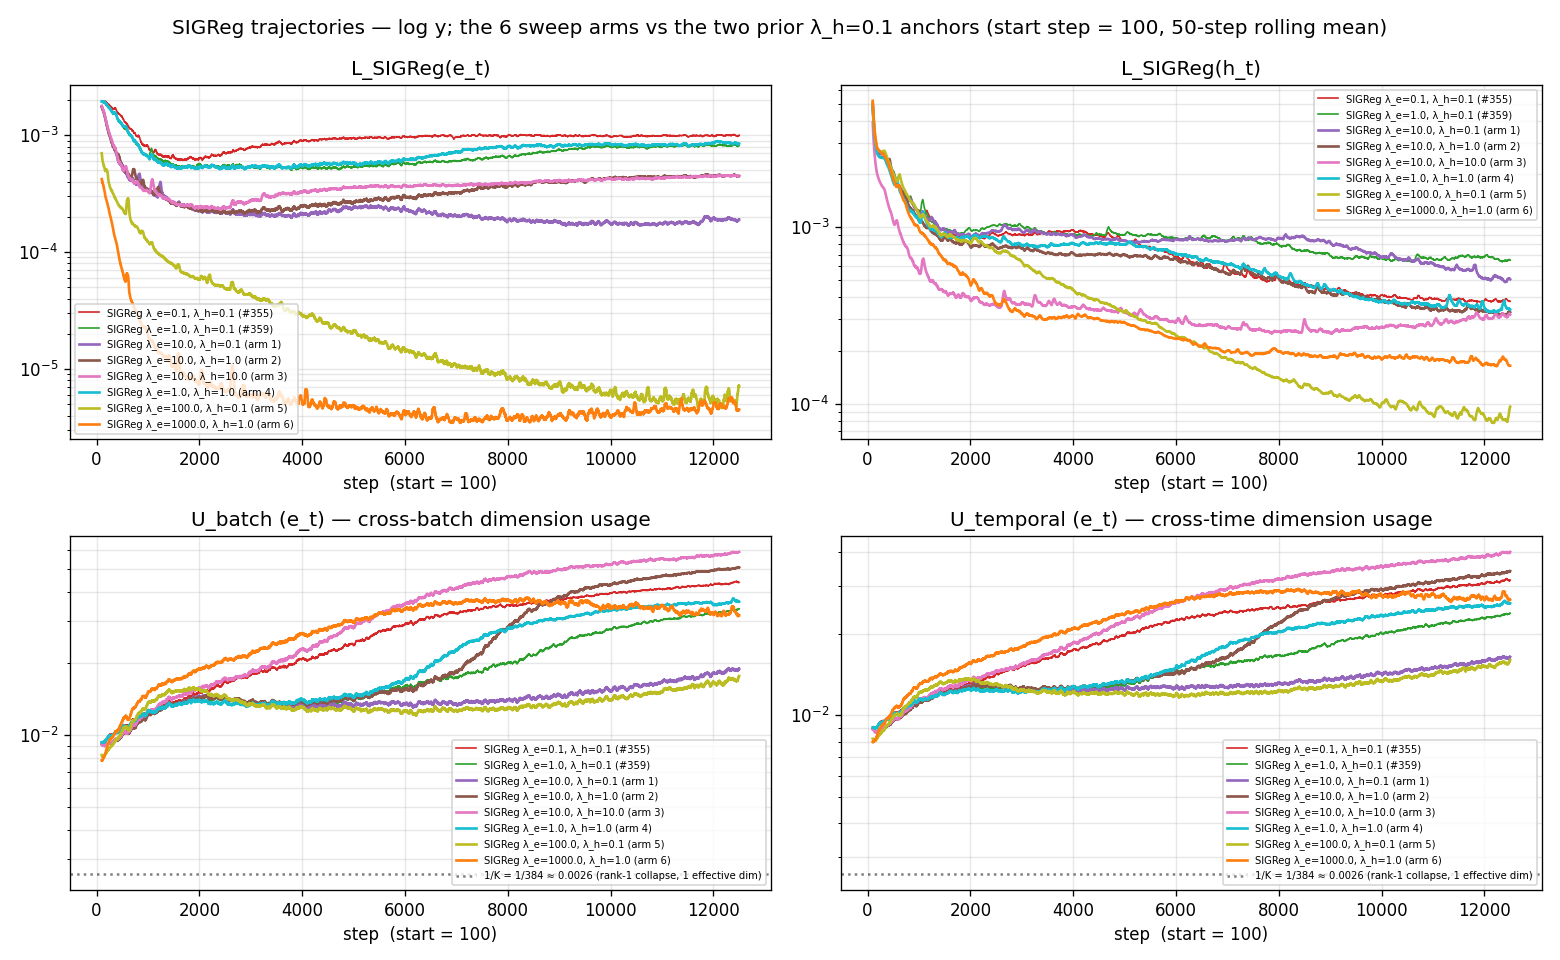
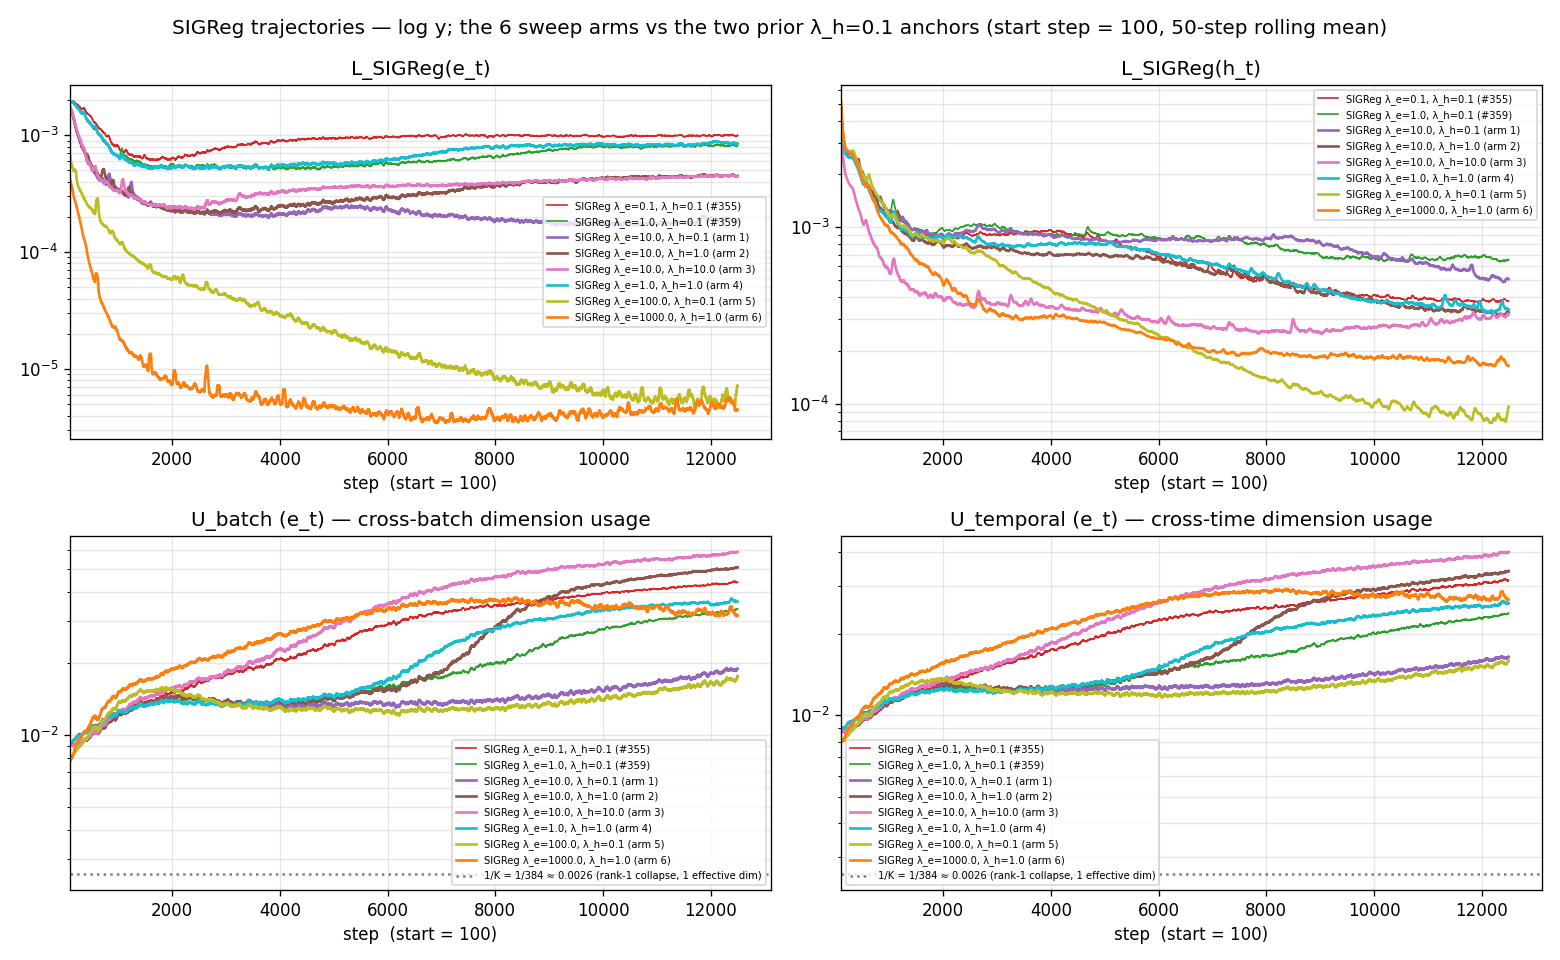
report(#363): iter-24 review — pin linear-x trajectory plots to PLOT_START_STEP=100
The dim_usage_h.png and dim_usage_e.png panels visually extended back to step
0 due to matplotlib's default axis padding, even though `_smoothed` already
cuts the data to `step >= PLOT_START_STEP`. The same defect was present on
sigreg_e_inspection.png. loss_curve.png is unaffected (log-x naturally starts
at 10^2 = 100).

Add `ax.set_xlim(left=PLOT_START_STEP)` to the linear-x panels in
`plot_dim_usage` and `plot_sigreg_inspection` so the visual axis matches the
documented cut. The constant PLOT_START_STEP=100 is unchanged.

diff --git a/reports/2026-06-24_sigreg_lambda_sweep/scripts/build_plots.py b/reports/2026-06-24_sigreg_lambda_sweep/scripts/build_plots.py
@@ -320,6 +320,7 @@ def plot_sigreg_inspection(arm_runs: Path, sigreg_runs: Path, sigreg10_runs: Pat
             ax.axhline(1.0 / K, color="k", ls=":", alpha=0.5,
                        label=f"1/K = 1/{K} ≈ {1/K:.4f} (rank-1 collapse, 1 effective dim)")
         ax.set_yscale("log")
+        ax.set_xlim(left=PLOT_START_STEP)
         ax.set_xlabel(f"step  (start = {PLOT_START_STEP})")
         ax.set_title(title)
         ax.legend(fontsize=6, loc="best"); ax.grid(alpha=0.3, which="both")
@@ -425,6 +426,7 @@ def plot_dim_usage(arm_runs: Path, sigreg_runs: Path, sigreg10_runs: Path,
         ax.axhline(1.0 / K, color="k", ls=":", alpha=0.5)
         ax.set_yscale("log")
         ax.set_ylim(*ylim)
+        ax.set_xlim(left=PLOT_START_STEP)
         ax.set_xlabel(f"step  (start = {PLOT_START_STEP})")
         ax.set_title(title, fontsize=10)
         ax.grid(alpha=0.3, which="both")
